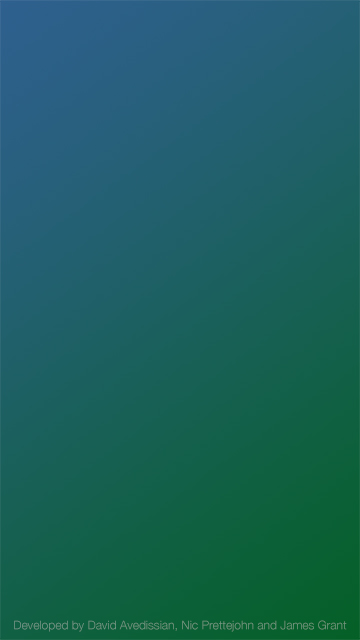
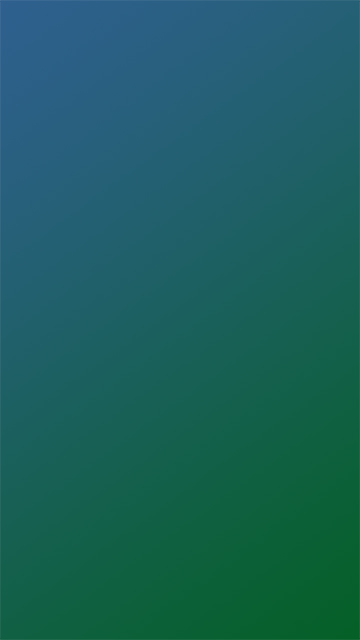
Removed names from background

Changed region(s): [[0.0306, 0.9688, 0.9778, 1.0]]

diff --git a/android/www/css/layout.css b/android/www/css/layout.css
@@ -18,7 +18,7 @@ body
   padding: 0;
 
   background: url("../img/background.jpg") no-repeat;
-  background-size: cover;
+  background-size: 360px 567px;
   font-family:'HelveticaNeue-Light', 'HelveticaNeue', Helvetica, Arial, sans-serif;
 }
 
